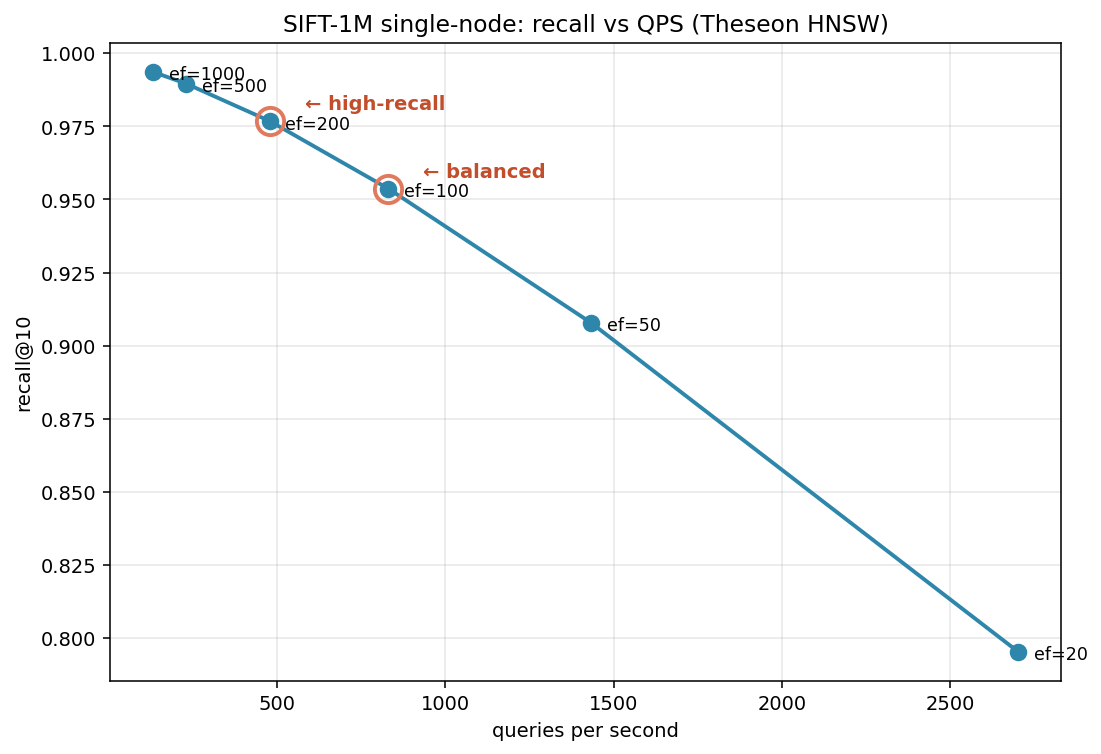
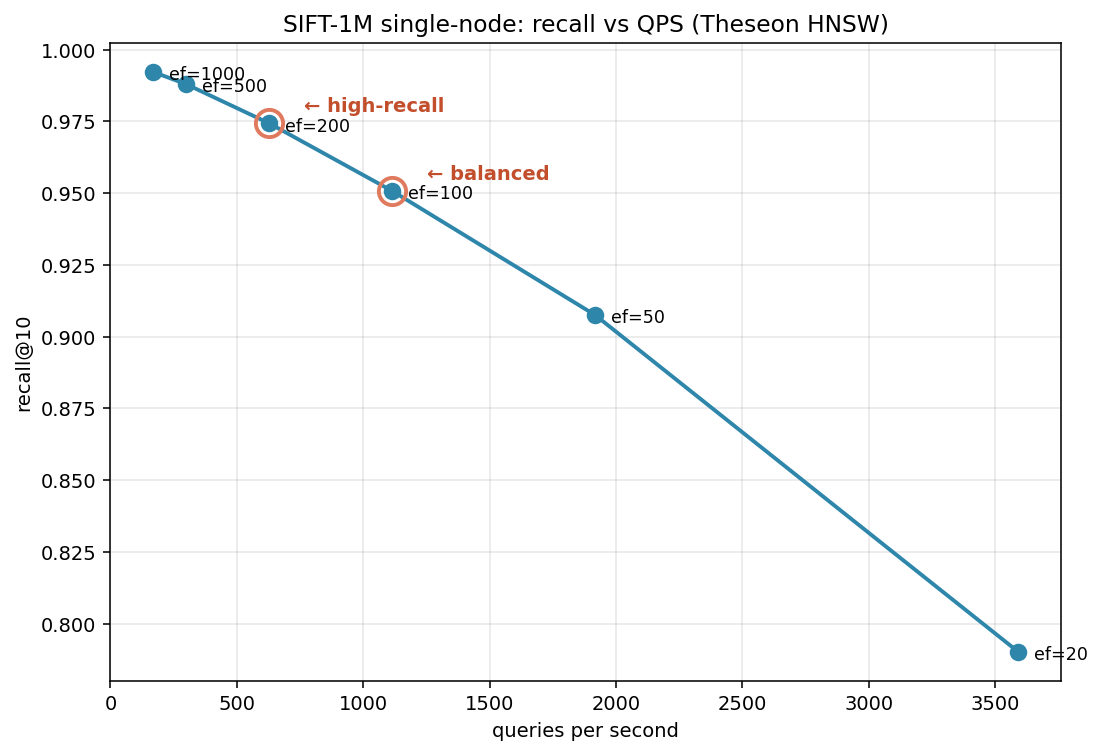
docs: update README with detailed vector search and SIMD optimizations
- Expand README to feature cross-architecture SIMD distance kernels using AVX2+FMA (x86) and NEON (ARM64).
- Add benchmarks demonstrating performance improvements with SIMD optimizations and allocation-free HNSW search path.
- Highlight design decisions, implementation details, and testing methodology for SIMD and HNSW optimizations.
- Include new performance results, blog post links, and benchmark charts.

diff --git a/README.md b/README.md
@@ -4,14 +4,15 @@
 [![Go Version](https://img.shields.io/github/go-mod/go-version/ulixert/theseon)](https://go.dev/)
 [![License: MIT](https://img.shields.io/badge/License-MIT-yellow.svg)](LICENSE)
 
-A distributed LSM-tree storage engine with native vector search, built from scratch in Go.
+A distributed LSM-tree storage engine with native vector search and hand-written SIMD distance kernels, built from scratch in Go.
 
-Every core component — skip list, WAL, SSTable format, bloom filter, merge iterator, leveled compaction, snapshot
-isolation, optimistic transactions — is hand-built. The distributed layer — consistent hashing, hybrid logical clocks,
-SWIM gossip, quorum coordination, hinted handoff, merkle-tree anti-entropy — is equally from scratch. The vector search
-layer — HNSW index, binary vector encoding, snapshot persistence, metadata filtering, distributed fan-out — is built on
-the same foundation: vectors are regular KV entries, so replication and repair come for free. Only gRPC and protobuf use
-external libraries.
+**Storage:** skip list, WAL with CRC32 framing, mmap'd block-based SSTable format, bloom filters, merge iterator, leveled compaction with MVCC-aware GC, snapshot isolation, optimistic transactions — all hand-implemented.
+
+**Distribution:** consistent hashing with virtual nodes, hybrid logical clocks, SWIM gossip, quorum coordination with tunable R/W, hinted handoff, Merkle-tree anti-entropy — Dynamo-style leaderless replication, no leader election.
+
+**Vector search:** HNSW index, binary vector encoding, snapshot persistence, distributed fan-out, allocation-free graph traversal, and architecture-specific SIMD distance kernels (AVX2+FMA on x86 generated via avo, hand-written ARM64 NEON in Plan 9 assembly). Vectors are regular KV entries, so replication and repair come for free.
+
+External dependencies are limited to transport (gRPC/protobuf), telemetry (Prometheus), hashing (xxhash), and CPU feature detection (`golang.org/x/sys`). Benchmarks compare against [CockroachDB's Pebble](https://github.com/cockroachdb/pebble) as a reference engine, isolated in a Go sub-module so the main `go.mod` carries no competing-engine deps.
 
 > "Theseon" comes from the Greek _Theseion_ — the Temple of Hephaestus in Athens, one of the best-preserved ancient
 > structures. It also evokes Theseus navigating the labyrinth, which is roughly what HNSW does: traversing layers of
@@ -19,25 +20,33 @@ external libraries.
 
 ---
 
-### 📊 [Benchmarking Theseon: KV, Cluster, Chaos, and HNSW on SIFT-1M](https://ulixert.github.io/posts/theseon-benchmarks/)
+## Highlights
 
-The latest post in the series. Four benchmark harnesses, five charts, and a debugging story.
+- **Vector search:** HNSW on SIFT-1M hits **95% recall@10 at ~1116 QPS** (1M × 128-dim, single-thread M1) — **+34% vs the pre-SIMD baseline**, after a profile-driven optimization pass that reshaped the search hot path.
+- **Cross-architecture SIMD distance kernels.** AVX2+FMA on x86 (avo-generated) and hand-written ARM64 NEON in Plan 9 assembly, with runtime CPU dispatch (`HasAVX2 && HasFMA` / `HasASIMD`) and a generic Go fallback. Validated in CI on Intel Xeon, AWS Graviton, and AMD EPYC. Kernel speedup: **3.9–7.5× on M1 NEON, ~10–14× on Intel Xeon AVX2** across d=128–1536.
+- **Allocation-free HNSW search path.** Pooled visited-set, typed candidate heap replacing `container/heap` (avoiding interface boxing in the inner loop). `allocs/op 442 → 2`; `-race` clean under concurrent search.
+- **Distributed correctness under load.** 3-node cluster holds **0% client-visible error rate through a 60-second node outage** under chaos testing — quorum coordination masks the failure entirely.
+- **LSM engine matches CockroachDB's Pebble within ~5%** on YCSB-A/B/C at equal cache budgets (~430K reads/sec on YCSB-C, 2M-key workload).
 
-- **Single-node**: Theseon matches Pebble on read throughput (~430K ops/sec) under equal cache budgets.
-- **Cluster & chaos**: 3-node cluster sustains ~1.9K ops/sec on read-heavy workloads at N=3/W=2/R=2, and **client-visible error rate stays at 0% throughout a 60-second node outage** — quorum masks the failure completely.
-- **Vector**: HNSW on SIFT-1M hits **95% recall@10 at ~830 QPS**, with SIMD identified as the next major bottleneck.
-- **Debugging story**: the first cluster run reported 100% errors on one quorum config. Tracing it revealed a `BatchWrite` handler silently bypassing the coordinator, not the read path I was investigating. Details in the post.
+### 📊 Featured posts
+
+- **[Benchmarking Theseon (v0.13)](.../theseon-benchmarks/)** — comprehensive performance analysis: KV vs Pebble parity, cluster + chaos quorum sweeps, vector recall/QPS sweep on SIFT-1M, full methodology + the (3,1,3) null-result debugging story.
+- **[SIMD Distance Kernels and an Allocation-Free HNSW Search Path (v0.15)](.../theseon-simd-and-allocfree/)** — profile-driven HNSW optimization: cross-arch SIMD (AVX2+FMA via avo, hand-written ARM64 NEON Plan 9 assembly), allocation-free graph traversal, the Plan 9 assembler limitations, and the microbench-vs-SIFT-1M discrepancy.
+
+Earlier post: [Merkle Anti-Entropy (v0.14)](.../theseon-anti-entropy/) — the third repair layer.
+
+Profile-driven HNSW optimization: the v0.14 baseline showed three top costs (distance compute 32%, GC overhead 27%, map ops 17%). v0.15 closes the first two and identifies the third as the next bottleneck. Covers the Plan 9 ARM64 assembler limitations (three core float-vector instructions emitted via raw `WORD` directives because the assembler doesn't implement them), the `container/heap` `any`-boxing realization that no amount of pooling could fix, the avo workflow for AVX2, and the microbench that overstated end-to-end gain by ~2× before the SIFT-1M run brought it back to honesty.
 
 <p align="center">
-  <img src="./docs/benchmarks/chart_kv_chaos.png" alt="Chaos run: node-2 killed and restarted mid-load" width="900">
+  <img src="./docs/benchmarks/chart_kv_chaos.png" alt="Chaos: node-2 killed and restarted mid-load. Quorum masks the outage to clients (0% errors throughout)." width="900">
 </p>
 
 <p align="center">
-  <img src="./docs/benchmarks/chart_kv_single_node.png" alt="Single-node throughput + p99: Theseon vs Pebble" width="445">
-  <img src="./docs/benchmarks/chart_vector_recall_qps.png" alt="SIFT-1M recall vs QPS" width="445">
+  <img src="./docs/benchmarks/chart_vector_recall_qps.png" alt="SIFT-1M HNSW: recall@10 vs QPS sweep over ef_search" width="445">
+  <img src="./docs/benchmarks/chart_vector_latency.png" alt="SIFT-1M HNSW: latency percentiles (p50/p95/p99) vs ef_search" width="445">
 </p>
 
-See the [full post](https://ulixert.github.io/posts/theseon-benchmarks/) for methodology, the (3,1,3) null-result debugging story, and what I'd do next. Harnesses live in [`benchmarks/`](benchmarks/README.md) and are reproducible end-to-end.
+Benchmark harnesses live in [`benchmarks/`](benchmarks/README.md) and are reproducible end-to-end (`benchmarks/run-sweep.sh`). Earlier posts: [Benchmarking Theseon (v0.13)](https://ulixert.github.io/posts/theseon-benchmarks/), [Merkle Anti-Entropy (v0.14)](https://ulixert.github.io/posts/theseon-anti-entropy/).
 
 ---
 
@@ -56,6 +65,8 @@ See the [full post](https://ulixert.github.io/posts/theseon-benchmarks/) for met
 11. [Fan-Out, Merge, Repair: Distributed Vector Search](https://ulixert.github.io/posts/theseon-distributed-vector-search/)
 12. [Starting, Joining, Activating: The Node Orchestrator](https://ulixert.github.io/posts/theseon-node-orchestrator/)
 13. [Benchmarking Theseon: KV, Cluster, Chaos, and HNSW on SIFT-1M](https://ulixert.github.io/posts/theseon-benchmarks/)
+14. [Merkle Anti-Entropy: Catching Drift That Read Repair and Hinted Handoff Miss](https://ulixert.github.io/posts/theseon-anti-entropy/)
+15. [SIMD Distance Kernels and an Allocation-Free HNSW Search Path](https://ulixert.github.io/posts/theseon-simd-and-allocfree/)
 
 
 ## Getting Started
@@ -486,6 +497,61 @@ Anti-entropy — periodic merkle tree comparison detects and repairs any remaini
 **Explicit non-guarantees.** No distributed snapshots, no distributed transactions, no cross-key causal consistency.
 These are deliberate scope boundaries, not oversights.
 
+### Cross-Architecture SIMD Distance Kernels
+
+The HNSW search hot path bottlenecks on `L2SquaredFloat32(a, b []float32) float32` — called once per node visited
+during graph traversal. Theseon's `internal/simd` package provides three implementations of that kernel, with runtime
+dispatch picking the best one for the running CPU at process start:
+
+```
+internal/simd/
+  l2_generic.go        always compiled — pure Go reference, also the test oracle
+  l2_arm64.{go,s}      hand-written Plan 9 NEON assembly (8 floats / iter)
+  l2_amd64.{go,s}      avo-generated AVX2+FMA assembly (16 floats / iter)
+  cpu_amd64.go         hasAVX2() = HasAVX2 && HasFMA  — guards weird VMs
+  cpu_arm64.go         hasNEON() = ARM64.HasASIMD
+  dispatch_*.go        init() reassigns L2SquaredFloat32 to the chosen impl
+```
+
+A few non-obvious decisions:
+
+- **`HasAVX2 && HasFMA`** — AVX2 doesn't imply FMA3 in CPUID, even though all consumer x86 CPUs since Haswell (2013)
+  have both. Without the conjunction, hypervisor passthrough setups can `SIGILL` on `VFMADD231PS`.
+- **`VMOVUPS` only, never `VMOVAPS`** — Go's runtime gives at most 16-byte alignment for slice backing arrays. Aligned
+  loads on misaligned data raise `SIGSEGV`. On Skylake+ unaligned has near-zero penalty when data is incidentally
+  aligned.
+- **No `VHADDPS` in the AVX2 reduction** — horizontal float-add is microcoded (3+ µops) on most Intel µarchs. The
+  reduction uses `VEXTRACTF128 + VPERMILPS + VADDPS` shuffle tree instead.
+- **Plan 9 ARM64 doesn't implement `VFADD`/`VFSUB`/`VFADDP` for `.S4`/`.2S`** (TODO in
+  `cmd/asm/internal/asm/testdata/arm64enc.s`). `VFMLA` is supported, used directly. The three unsupported
+  instructions are emitted via `WORD $0xENCODING` directives, each annotated with the AArch64 mnemonic and the
+  bit-field derivation.
+
+The kernel is tested via property tests (boundary lengths from 0 to 1536, scale-aware tolerance harness, zero/identity
+invariants), allocation guards (`testing.AllocsPerRun = 0`), and a `FuzzL2Squared` that compares against a
+float64-accumulating reference oracle. CI runs all of this in a 2×2 matrix: `{ubuntu-latest, ubuntu-24.04-arm}` ×
+`{default, purego}` — covers AVX2, NEON, and the generic-fallback path on both arches.
+
+### Allocation-Free HNSW Search Path
+
+Profile-driven: pre-fix, `BenchmarkSearch_1K_128dim` reported 442 allocs/op and ~27% of total time in GC overhead.
+Two changes brought allocs/op to 2:
+
+- **Pooled visited-set map.** `searchLayer` sources its `map[uint64]bool` from a `sync.Pool[*map]` and `clear()`s on
+  Get; the map's bucket capacity stabilizes at the steady-state working set size. Concurrent searches each get their
+  own map (verified via a 16-goroutine race test).
+- **Typed `*distHeap` replacing `container/heap`.** `container/heap`'s API uses `any` for Push/Pop, which boxes the
+  `heapItem` into an interface header on every push and pop — a structural cost that pooling can't reach. The typed
+  heap exposes direct `push`/`pop`/`up`/`down` methods on `*distHeap`; `Less` and `Swap` become inlinable, and there
+  is no boxing. A parity test drives both implementations with identical random Push/Pop sequences and asserts
+  identical pop order.
+
+Combined with the SIMD kernels, this dropped distance compute from 32% → ~13% of total search time and cut
+end-to-end search latency by ~62% on the 1K microbench. SIFT-1M's improvement is bounded by Amdahl on memory
+bandwidth (the 512MB working set doesn't fit in cache), giving a ~34% real-world speedup. The post-fix profile
+identifies map operations on the visited set and node lookup as the next bottleneck — the natural follow-up is an
+internal dense-ID refactor (slice-indexed graph with `uint32` slot IDs), tracked separately.
+
 ## Benchmarks
 
 Measured on an Apple M1 Air, 16 GB RAM, Go 1.26. Four harnesses live in [`benchmarks/`](benchmarks/README.md)
@@ -514,16 +580,33 @@ fsync-bound on both engines; YCSB-C measures read-path efficiency.
 the full 60-second outage** — quorum coordination masks the failure to clients entirely. Throughput settles
 back to baseline within seconds of the replacement rejoining.
 
-**Vector (SIFT-1M, HNSW M=16, EfConstruct=200, 5000 queries per point)**:
+**Vector (SIFT-1M, HNSW M=16, EfConstruct=200, 1000 queries per ef point, post-SIMD)**:
 
-| ef_search | recall@10 | QPS | p99 |
-|---|---|---|---|
-| 100 | **95.4%** | **831** | 1.76 ms ← balanced |
-| 200 | 97.7% | 479 | 3.06 ms ← high-recall |
-| 1000 | 99.4% | 133 | 11.7 ms |
+| ef_search | recall@10 | QPS | p50 ms | p99 ms |
+|---|---|---|---|---|
+| 50  | 90.8% | 1,918 | 0.54 | 0.82 |
+| **100** | **95.1%** | **1,116** | 0.94 | 1.31 ← balanced |
+| 200 | 97.4% | 629 | 1.65 | 2.31 ← high-recall |
+| 500 | 98.8% | 299 | 3.48 | 5.06 |
+| 1000 | 99.2% | 170 | 6.06 | 9.03 |
 
-📊 **[Full benchmark analysis (blog post)](https://ulixert.github.io/posts/theseon-benchmarks/)** — methodology,
-the (3,1,3) null-result debugging story, comparison to hnswlib, and what's next.
+The 95% recall@10 point is **+34% QPS over the pre-SIMD baseline** (~830 → ~1116). Headline kernel speedup
+(SIMD vs scalar Go) measured in the CI matrix:
+
+| | d=128 | d=384 | d=768 | d=1536 |
+|---|---|---|---|---|
+| **Apple M1 NEON** | 3.86× | 6.37× | 7.15× | 7.58× |
+| **AWS Graviton NEON** | 4.05× | 5.29× | 5.74× | 5.94× |
+| **Intel Xeon AVX2+FMA** | ~10× | ~12.6× | ~13.3× | ~13.8× |
+
+End-to-end gains shrink relative to kernel gains because SIFT-1M's 512MB working set is memory-bandwidth-bound — the
+microbench tells the kernel-quality story, the SIFT-1M sweep tells the workload-quality story. Both are honest; the
+gap between them is its own [blog post](https://ulixert.github.io/posts/theseon-simd-and-allocfree/).
+
+📊 **[Latest benchmark post (v0.15)](https://ulixert.github.io/posts/theseon-simd-and-allocfree/)** — SIMD kernels
++ allocation-free graph traversal + the microbench-trap lesson.
+  📊 **[Earlier benchmark post (v0.13)](https://ulixert.github.io/posts/theseon-benchmarks/)** — methodology,
+  the (3,1,3) null-result debugging story, comparison to hnswlib.
 
 🔬 **[Per-operation microbenchmarks](BENCHMARKS.md)** — `go test -bench` numbers for individual operations (memtable, SSTable, MVCC).
 
@@ -577,7 +660,7 @@ hint drain progress, and replicate-RPC duration.
 - [x] Admin CLI for explicit topology management (status, join, activate, remove)
 - [x] Integration tests (cluster formation, hinted handoff) and chaos benchmark (kill + restart under load)
 - [x] Prometheus `/metrics` endpoint (KV throughput/latency, compactions, SSTable count, hint drain, RPC duration)
-- [ ] Merkle-tree anti-entropy with tombstone GC
+- [x] Merkle-tree anti-entropy (XOR-leaf tree, grace-period filter, periodic + on-recovery + admin triggers)
 - [ ] Data streaming backfill to JOINING replicas (historical data migration)
 - [ ] Jepsen-style fault injection / chaos tests
 
@@ -592,6 +675,17 @@ hint drain progress, and replicate-RPC duration.
 - [x] HNSW snapshot persistence (avoid full rebuild on restart)
 - [ ] Metadata filtering (in-memory post-filter + secondary index)
 - [x] Distributed vector search (fan-out across replicas via gRPC, oversample + rerank)
+
+### Performance Engineering
+
+- [x] Cross-architecture SIMD distance kernels: AVX2+FMA on x86 (avo-generated), hand-written ARM64 NEON in Plan 9 assembly
+- [x] Runtime CPU dispatch with `HasAVX2 && HasFMA` / `HasASIMD` gating, generic Go fallback, `-tags=purego` build path
+- [x] Allocation-free HNSW search: pooled visited-set, typed candidate heap replacing `container/heap` (no `any`-boxing)
+- [x] Tolerance-aware property tests + `FuzzL2Squared` against a float64 reference oracle
+- [x] CI matrix runtime validation: `{ubuntu-latest, ubuntu-24.04-arm} × {default, purego}` covers every dispatch branch
+- [x] `pprof`-driven optimization workflow with profile artifacts captured at each stage
+- [ ] Internal dense-ID refactor (slice-indexed graph, `uint32` slot IDs) — closes the ~38% map-ops bottleneck
+- [ ] AVX-512 path (gated, opt-in) for the small set of deployment CPUs that benefit
 
 ## Project Structure
 
@@ -614,16 +708,29 @@ theseon/
   cluster/         distributed layer: SWIM membership, coordinator (quorum fan-out + read
                    repair), AdminService handlers (join/activate/remove with CAS),
                    gRPC transport, peer pool, voter/learner write split
+    antientropy/   Merkle-tree anti-entropy: tree, ranges, RPC, manager, reconcile loop
     hintedhandoff/ separate hint DB, type-tagged envelopes, drainer (KV + vector replay)
-  hashring/        consistent hash ring: vnodes, SHA-256 placement, atomic ReplaceMembers
+  hashring/        consistent hash ring: vnodes, xxhash placement, atomic ReplaceMembers
   hlc/             hybrid logical clocks: wall-clock + logical counter, drift detection
   server/          gRPC server: Theseon/Internal/Admin services, standalone/cluster routing
   proto/theseonpb/ .proto definitions and generated code
 
   vector/          VectorStore: collection management, encoding, KV integration, metrics,
                    per-collection HNSW locks, VectorVersion (LWW)
-    hnsw/          HNSW graph (from scratch): insert, beam search, tombstone cleanup
+    hnsw/          HNSW graph (from scratch): insert, beam search, tombstone cleanup,
+                   pooled visited-set, typed candidate heap (no container/heap)
     eval/          recall@k, brute-force KNN, benchmarks, parameter sweep
+
+  internal/simd/   SIMD distance kernel layer (internal-only):
+                   l2_generic.go (Go reference), l2_arm64.{go,s} (NEON Plan 9 asm),
+                   l2_amd64.{go,s} (avo-generated AVX2+FMA), dispatch_*.go,
+                   cpu_{amd64,arm64,other}.go (runtime feature detection).
+                   asm/amd64/main.go is the avo source; regenerate via `make gen-simd`.
+
+  benchmarks/      separate Go module (own go.mod with replace ../) so the comparison
+                   target (CockroachDB's Pebble) and the chart-generation deps don't
+                   pollute the main module's go.mod. Harnesses: kv_single_node,
+                   kv_cluster, kv_chaos, vector (SIFT-1M).
 ```
 
 ## Build
